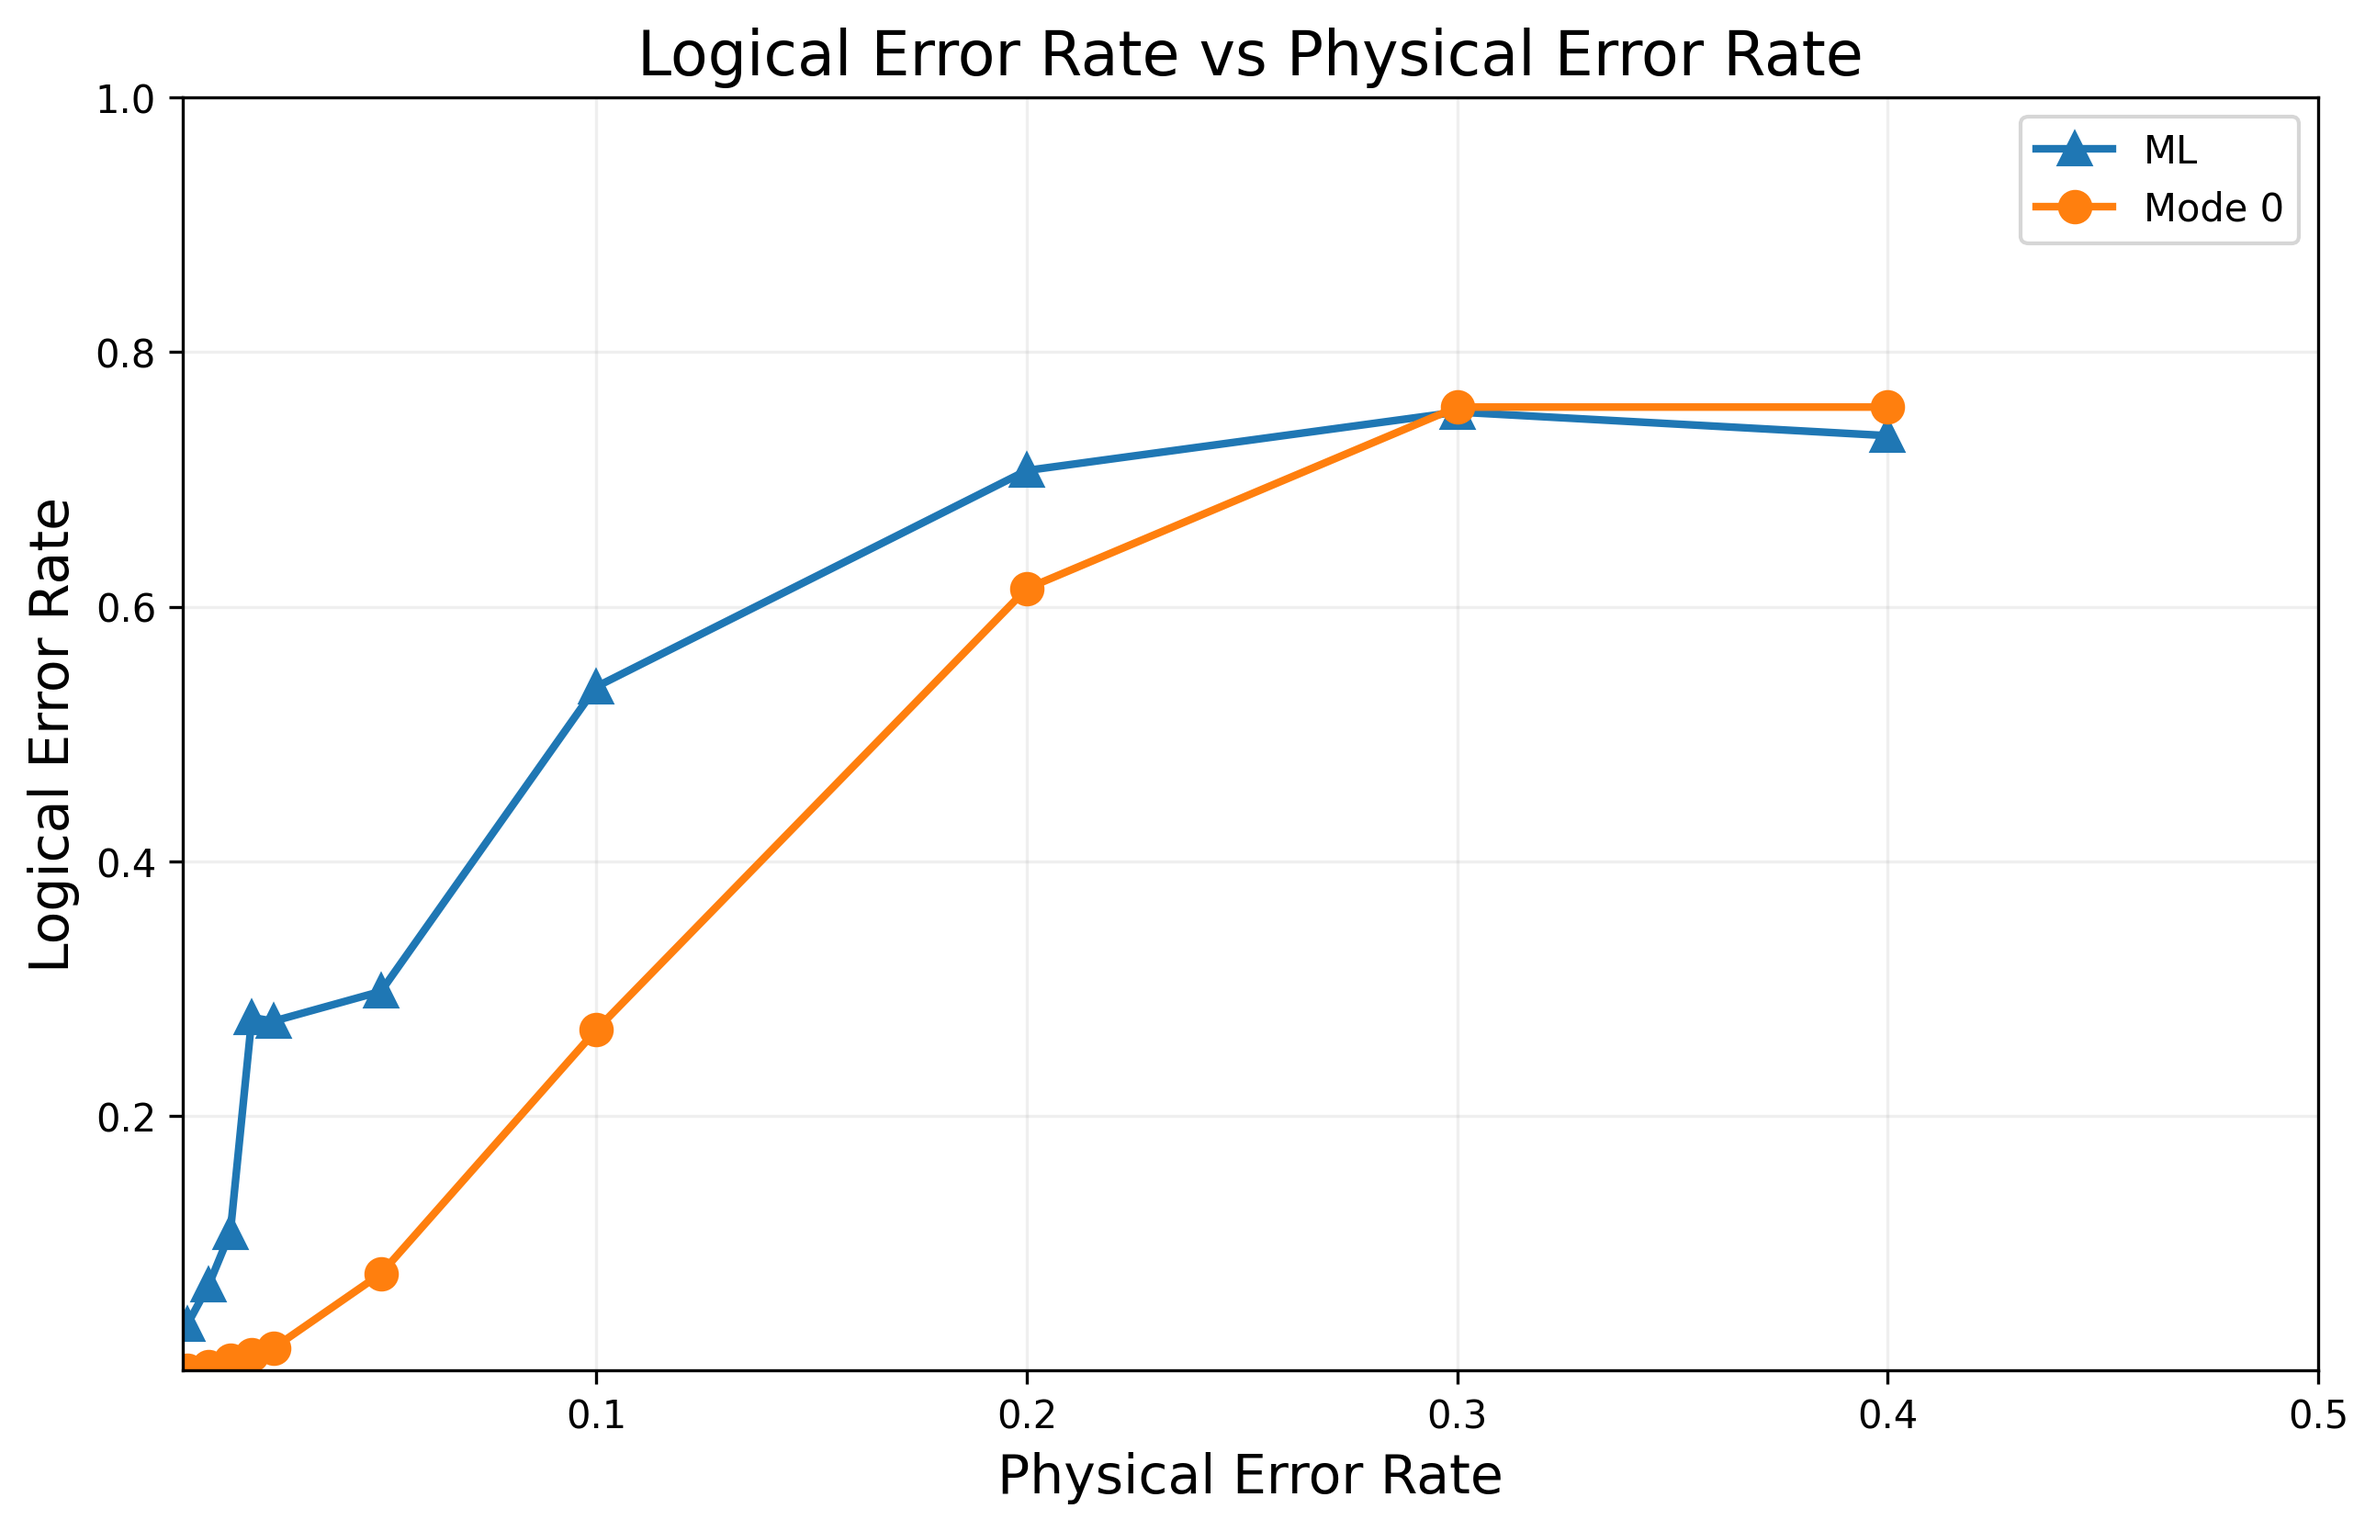
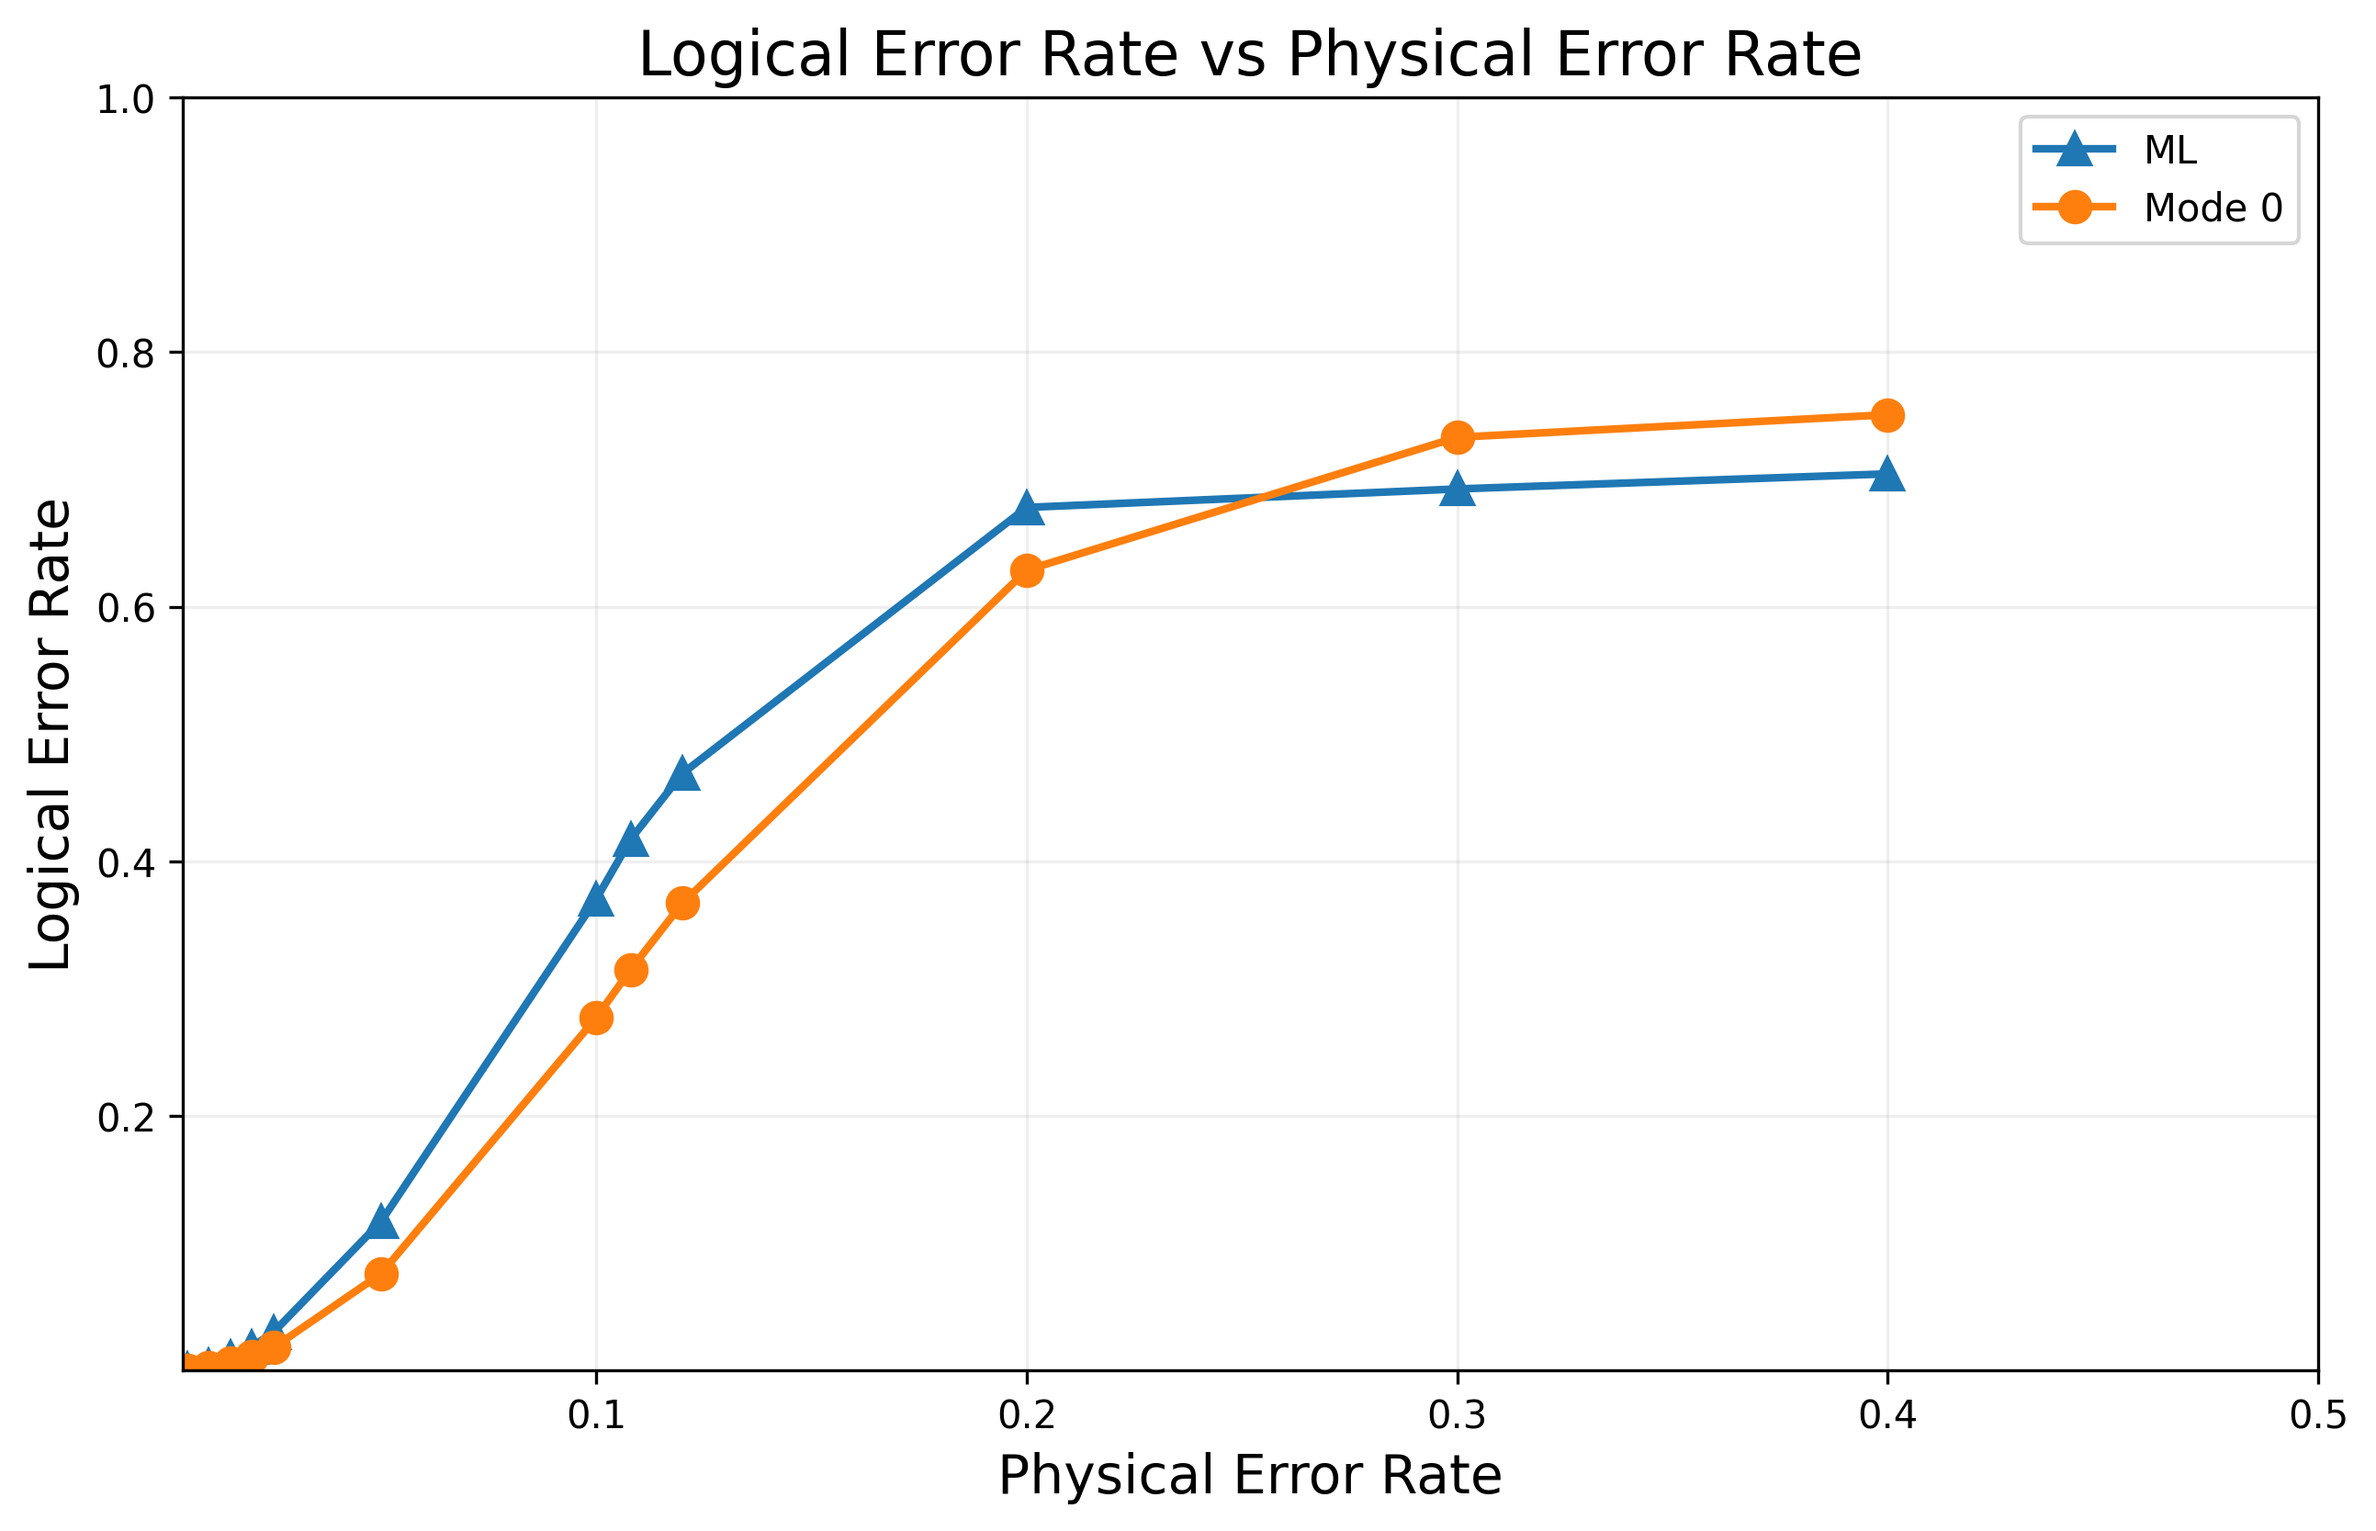
Do some test.

diff --git a/src/util_m4ri.c b/src/util_m4ri.c
@@ -446,37 +446,59 @@ csr_t *csr_free(csr_t *p){
 }
 
 /**
- * initialize a CSR matrix 
- * check existing size and (re)allocate if  needded 
+ * Initialize a CSR matrix 
+ * Check existing size and (re)allocate if needed 
  */
-csr_t *csr_init(csr_t *mat, int rows, int cols, int nzmax){
-  const int max = MAX(nzmax,(rows+1));
-  if((nzmax<0)||(rows<0)||(cols<0))
-    ERROR("invalid parameters rows=%d cols=%d nzmax=%d)\n",rows,cols,nzmax);
-  if ((mat!=NULL)&&((mat->nzmax < max)||(mat->nzmax < rows+1))){
-    /* allocated size was too small */
-    /** keep allocated `mat` */
-    mat->p = realloc(mat->p, max*sizeof(int));
-    mat->i = realloc(mat->i, nzmax*sizeof(int));
-    if ((mat->p==NULL) || (mat->i==NULL))
-      ERROR("csr_init: failed to reallocate CSR rows=%d cols=%d nzmax=%d",
-            rows,cols,nzmax);
-    mat->nzmax=nzmax;
-    mat->p[0]=0;
-  }
-  else if(mat==NULL){
-    mat=malloc(sizeof(csr_t));  
-    mat->p=calloc(max,sizeof(int));
-    mat->i=calloc(nzmax,sizeof(int)); 
-    if ((mat == NULL) || (mat->p==NULL) || (mat->i==NULL))
-      ERROR("csr_init: failed to allocate CSR rows=%d cols=%d nzmax=%d",
-            rows,cols,nzmax);
-    mat->nzmax=nzmax;
-  }
-  mat->rows=rows;
-  mat->cols=cols;
-  mat->nz=0; /* empty */
-  return mat;
+csr_t *csr_init(csr_t *mat, int rows, int cols, int nzmax) {
+    const int max = MAX(nzmax, (rows + 1));
+    if ((nzmax < 0) || (rows < 0) || (cols < 0)) {
+        ERROR("invalid parameters rows=%d cols=%d nzmax=%d)\n", rows, cols, nzmax);
+        return NULL;
+    }
+
+    if (mat != NULL) {
+        // Check if existing allocation is sufficient
+        if ((mat->nzmax < max) || (mat->nzmax < rows + 1)) {
+            int *new_p = realloc(mat->p, max * sizeof(int));
+            int *new_i = realloc(mat->i, nzmax * sizeof(int));
+
+            if (new_p == NULL || new_i == NULL) {
+                // If reallocation fails, free the original matrix and return NULL
+                free(new_p);
+                free(new_i);
+                csr_free(mat);
+                ERROR("csr_init: failed to reallocate CSR rows=%d cols=%d nzmax=%d", rows, cols, nzmax);
+                return NULL;
+            }
+
+            mat->p = new_p;
+            mat->i = new_i;
+            mat->nzmax = nzmax;
+        }
+    } else {
+        // Allocate memory for the new matrix
+        mat = malloc(sizeof(csr_t));
+        if (mat == NULL) {
+            ERROR("csr_init: failed to allocate memory for CSR structure");
+            return NULL;
+        }
+
+        mat->p = calloc(max, sizeof(int));
+        mat->i = calloc(nzmax, sizeof(int));
+
+        if (mat->p == NULL || mat->i == NULL) {
+            csr_free(mat);
+            ERROR("csr_init: failed to allocate CSR rows=%d cols=%d nzmax=%d", rows, cols, nzmax);
+            return NULL;
+        }
+
+        mat->nzmax = nzmax;
+    }
+
+    mat->rows = rows;
+    mat->cols = cols;
+    mat->nz = 0; // Initialize as empty
+    return mat;
 }
 
 /** 

diff --git a/examples/plot_toricL4.py b/examples/plot_toricL4.py
@@ -1,35 +1,35 @@
 import matplotlib.pyplot as plt
 import numpy as np
 
-# 数据
-physical_error_rate = [0.005, 0.01, 0.015, 0.02, 0.025, 0.05, 0.1, 0.2, 0.3, 0.4]
-logical_error_rate_ML = [0.0361328, 0.0673828, 0.108398, 0.277344, 0.274414, 0.297852, 0.537109, 0.707031, 0.75293, 0.734375]
-logical_error_rate_mode0 = [0, 0.00292969, 0.0078125, 0.0126953, 0.0175781, 0.0761719, 0.267578, 0.614258, 0.756836, 0.756836]
+# Data
+physical_error_rate = [0.005, 0.01, 0.015, 0.02, 0.025, 0.05, 0.1,0.108,0.12, 0.2, 0.3, 0.4]
+logical_error_rate_ML = [0.00076, 0.00383, 0.0102, 0.0186, 0.03, 0.117, 0.3704,0.417333,0.469 ,0.678, 0.6925, 0.704375]
+logical_error_rate_mode0 = [0.00056, 0.00237, 0.00612, 0.01108, 0.01794, 0.07603, 0.27722,0.31507 ,0.36712 ,0.62878, 0.73311, 0.75083]
 
-# 创建图形和坐标轴
+
 plt.figure(figsize=(10, 6))
 
-# 绘制双对数图
+# double-log
 plt.plot(physical_error_rate, logical_error_rate_ML, '-^', markersize=8, linewidth=2, label='ML')
 plt.plot(physical_error_rate, logical_error_rate_mode0, '-o', markersize=8, linewidth=2, label='Mode 0')
 
-# 设置标题和标签
+#
 plt.title('Logical Error Rate vs Physical Error Rate', fontsize=16)
 plt.xlabel('Physical Error Rate', fontsize=14)
 plt.ylabel('Logical Error Rate', fontsize=14)
 
-# 设置网格
+# grid on
 plt.grid(True, which="both", ls="-", alpha=0.2)
 
-# 调整坐标轴
+# 
 plt.xlim(0.004, 0.5)
 plt.ylim(0.0001, 1)
 
-# 显示图例
+#
 plt.legend(loc='best')
 
-# 保存图形
+# 
 plt.savefig('error_rate_plot.png', dpi=300, bbox_inches='tight')
 
-# 显示图形
+# 
 plt.show()

diff --git a/src/vecdec.c b/src/vecdec.c
@@ -1304,7 +1304,7 @@ void solve_pairwise_BAR_ratio(double ***U, int **N, int K, double **Q_ratios) {
 }
 
 #define MAX_K 32
-#define MAX_ITERATIONS 10000
+#define MAX_ITERATIONS 100000
 
 typedef struct {
     double ***data;
